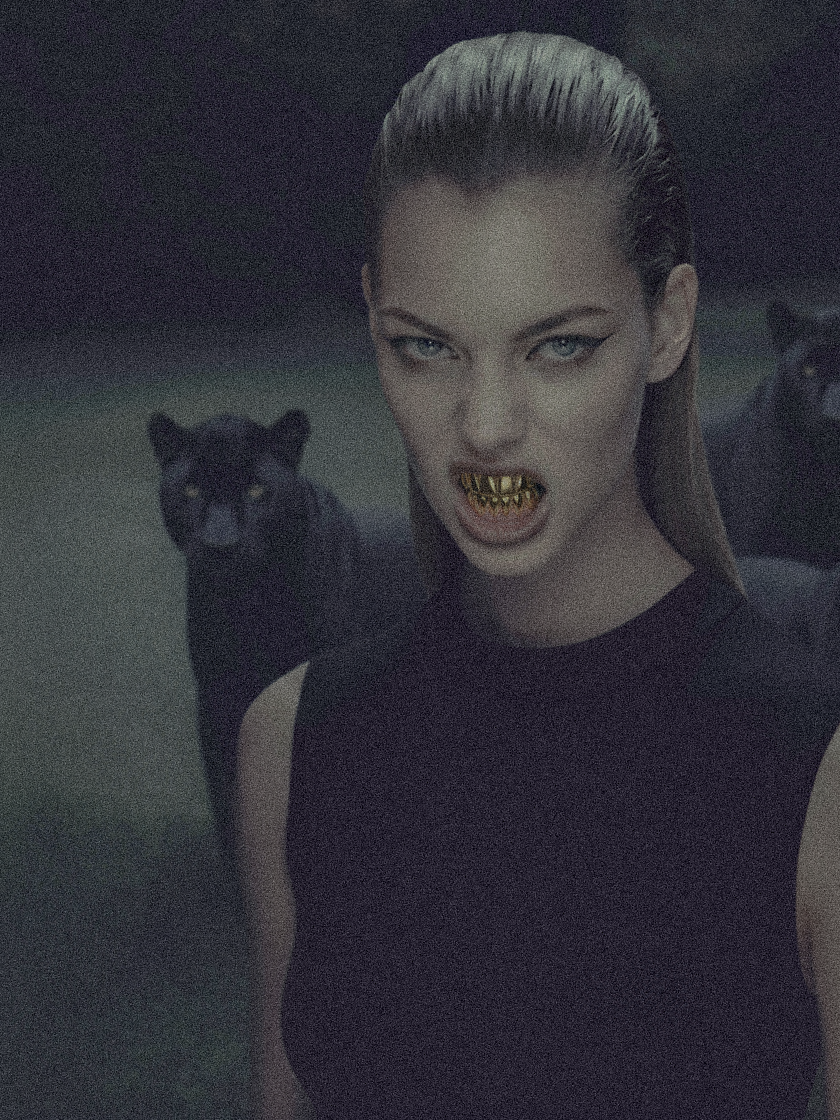
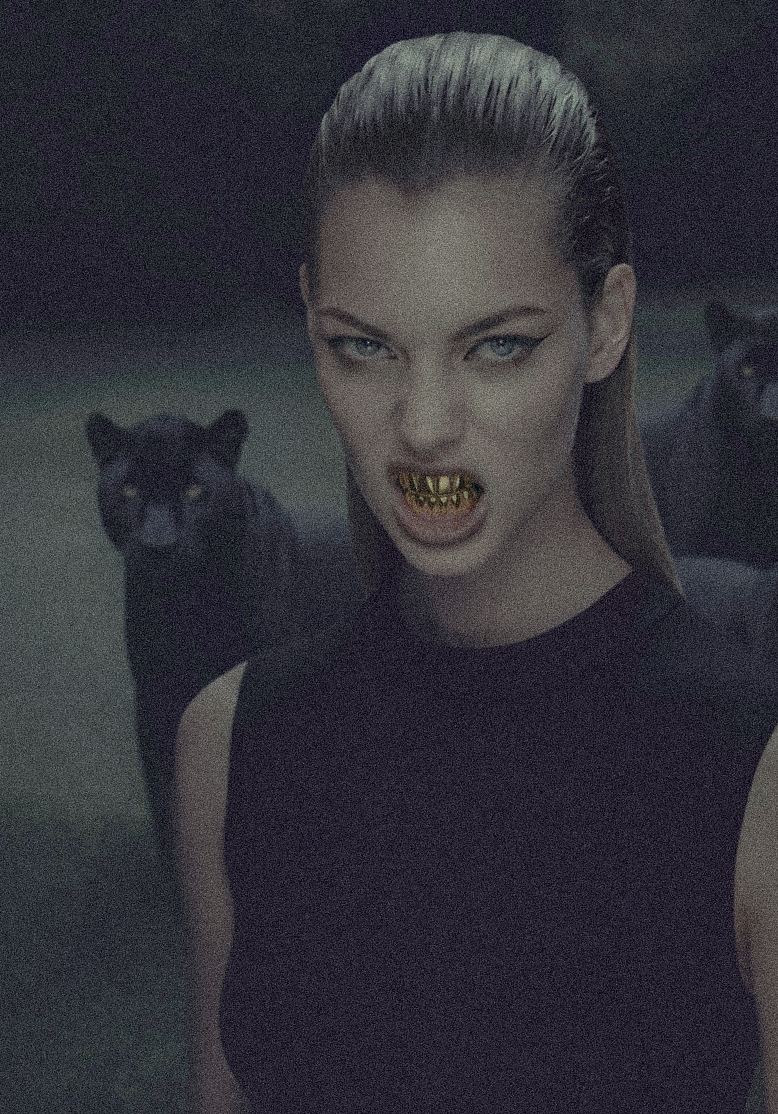
Update hero section visuals and navigation styles
Enhanced the hero section with new images and gradient overlays, added 'man' and 'girl2' images, and updated the navigation to use uppercase labels. Switched to 'Playfair Display' font, refined active link and animation styles, and adjusted typewriter animation speed for improved user experience.

Changed region(s): [[0.0, 0.0, 1.0, 1.0]]

diff --git a/home2.html b/home2.html
@@ -6,6 +6,10 @@
     <title>Custom Grillz</title>
     <!-- Add Google Material Symbols -->
     <link href="https://fonts.googleapis.com/css2?family=Material+Symbols+Outlined:opsz,wght,FILL,GRAD@20..48,100..700,0..1,-50..200" rel="stylesheet" />
+    <!-- Add Bebas Neue Font -->
+    <link rel="preconnect" href="https://fonts.googleapis.com">
+    <link rel="preconnect" href="https://fonts.gstatic.com" crossorigin>
+    <link href="https://fonts.googleapis.com/css2?family=Playfair+Display:ital,wght@0,400..900;1,400..900&display=swap" rel="stylesheet">
     <!-- Link to external CSS file -->
     <link rel="stylesheet" href="styles.css">
     <!-- Link to animations JavaScript file -->
@@ -28,16 +32,13 @@
         </div>
         <nav>
             <div class="nav-links">
-                <a href="#home" id="home-link">Home</a>
-                <a href="#collections" id="collections-link">Grillz Collections</a>
-                <a href="#custom" id="custom-link">Custom Grillz</a>
-                <a href="contact.html" id="contact-link">Contact Us</a>
-                <a href="about.html" id="about-link">About Us</a>
+                <a href="#home" id="home-link">HOME</a>
+                <a href="#collections" id="collections-link">GRILLZ COLLECTIONS</a>
+                <a href="#custom" id="custom-link">CUSTOM GRILLZ</a>
+                <a href="contact.html" id="contact-link">CONTACT US</a>
+                <a href="about.html" id="about-link">ABOUT US</a>
             </div>
-            <div class="icons">
-                <span class="material-symbols-outlined">search</span>
-                <span class="material-symbols-outlined">account_circle</span>
-            </div>
+            
         </nav>
     </header>
 
@@ -52,15 +53,15 @@
             <div class="grillz-grid">
                 <a href="basic-grillz.html" class="grillz-item">
                     <img src="media/ggz.png" alt="Basic Grillz">
-                    <h3>CLASSIC</h3>
+                    <h3>gold</h3>
                 </a>
                 <a href="iced-out-grillz.html" class="grillz-item">
                     <img src="media/dbbs.png" alt="Iced Out Grillz">
-                    <h3>ICED OUT</h3>
+                    <h3>iced out</h3>
                 </a>
                 <a href="unique-grillz.html" class="grillz-item">
                     <img src="media/uggz.png" alt="Unique Grillz">
-                    <h3>UNIQUE</h3>
+                    <h3>silver</h3>
                 </a>
             </div>
         </section>

diff --git a/styles.css b/styles.css
@@ -1,6 +1,6 @@
 body {
     margin: 0;
-    font-family: Arial, sans-serif;
+    font-family: "Playfair Display", Arial, sans-serif;
     background-color: black;
     color: #c0c0c0;
     scroll-behavior: smooth;
@@ -96,7 +96,7 @@ nav a.active {
 
 nav a.active::after {
     width: 100%;
-    background-color: gold;
+    background-color: rgb(180, 154, 7);
     height: 3px;
 }
 
@@ -132,11 +132,15 @@ main {
 }
 
 .hero {
-    background: url('media/girl.png') center/contain no-repeat;
+    background: black;
     text-align: center;
     padding: 180px 20px;
     position: relative;
     min-height: 40vh;
+    display: flex;
+    flex-direction: column;
+    align-items: center;
+    justify-content: center;
 }
 
 .hero::before {
@@ -146,7 +150,25 @@ main {
     left: 0;
     right: 0;
     bottom: 0;
+    background: 
+        url('media/girl.png') left center/28% auto no-repeat,
+        url('media/man.png') center center/40% auto no-repeat,
+        url('media/girl2.png') right center/28% auto no-repeat;
     background-color: rgba(0, 0, 0, 0.3);
+    z-index: 1;
+}
+
+.hero::after {
+    content: '';
+    position: absolute;
+    top: 0;
+    left: 0;
+    right: 0;
+    bottom: 0;
+    background: 
+        linear-gradient(90deg, transparent 28%, black 28%, black 28.5%, transparent 28.5%, transparent 71.5%, black 71.5%, black 72%, transparent 72%);
+    z-index: 2;
+    pointer-events: none;
 }
 
 .hero h1 {
@@ -156,6 +178,7 @@ main {
     color: #c0c0c0;
     text-shadow: 0 0 10px rgba(192, 192, 192, 0.7);
     position: relative;
+    z-index: 3;
 }
 
 .hero button {
@@ -167,6 +190,7 @@ main {
     cursor: pointer;
     font-weight: bold;
     position: relative;
+    z-index: 3;
     transition: all 0.3s ease;
 }
 
@@ -445,7 +469,7 @@ main {
 #loading-logo {
     opacity: 0;
     transform: translateY(20px);
-    transition: all 3s ease-out;
+    transition: all 3s cubic-bezier(0.25, 0.1, 0.25, 1);
     margin-bottom: 40px;
 }
 
@@ -535,14 +559,16 @@ main {
 @keyframes logoGlow {
     0%, 100% {
         filter: drop-shadow(0 0 20px rgba(192, 192, 192, 0.5));
+        transform: scale(1);
     }
     50% {
-        filter: drop-shadow(0 0 30px rgba(192, 192, 192, 0.8));
+        filter: drop-shadow(0 0 35px rgba(192, 192, 192, 0.9));
+        transform: scale(1.02);
     }
 }
 
 #loading-logo.fade-in img {
-    animation: logoGlow 3s ease-in-out infinite;
+    animation: logoGlow 4s cubic-bezier(0.4, 0, 0.6, 1) infinite;
 }
 
 /* Ensure main content is hidden initially */

diff --git a/animations.js b/animations.js
@@ -5,21 +5,15 @@ document.addEventListener('DOMContentLoaded', function() {
     const biteButton = document.getElementById('bite-button');
     const mainContent = document.getElementById('main-content');
     
-    // Check if user came from within the same site (internal navigation)
-    const isInternalNavigation = document.referrer && 
-        (document.referrer.includes(window.location.hostname) || 
-         sessionStorage.getItem('hasSeenLoadingAnimation'));
+    // Check if user has already seen the animation in this session
+    const hasSeenAnimation = sessionStorage.getItem('hasSeenLoadingAnimation');
     
-    if (isInternalNavigation) {
-        // Skip animation - show main content immediately for internal navigation
+    if (hasSeenAnimation) {
+        // Skip animation - show main content immediately
         loadingScreen.style.display = 'none';
         mainContent.style.visibility = 'visible';
         return; // Exit early, don't set up animation
     }
-    
-    // External visit or direct visit - show animation
-    // Clear any previous session flag since this is a new external visit
-    sessionStorage.removeItem('hasSeenLoadingAnimation');
     
     // Initially hide main content
     mainContent.style.visibility = 'hidden';
@@ -135,7 +129,7 @@ function startTypewriterEffect(element, text) {
         if (currentIndex < text.length) {
             element.textContent += text[currentIndex];
             currentIndex++;
-            setTimeout(typeNextCharacter, 150); // 150ms delay between characters
+            setTimeout(typeNextCharacter, 80); // 80ms delay between characters (faster)
         } else {
             // Typing complete
             element.classList.remove('typing');
@@ -144,7 +138,7 @@ function startTypewriterEffect(element, text) {
     }
     
     // Start typing after a brief delay
-    setTimeout(typeNextCharacter, 300);
+    setTimeout(typeNextCharacter, 200);
 }
 
 // Enhanced scroll header functionality (keeps existing functionality)
